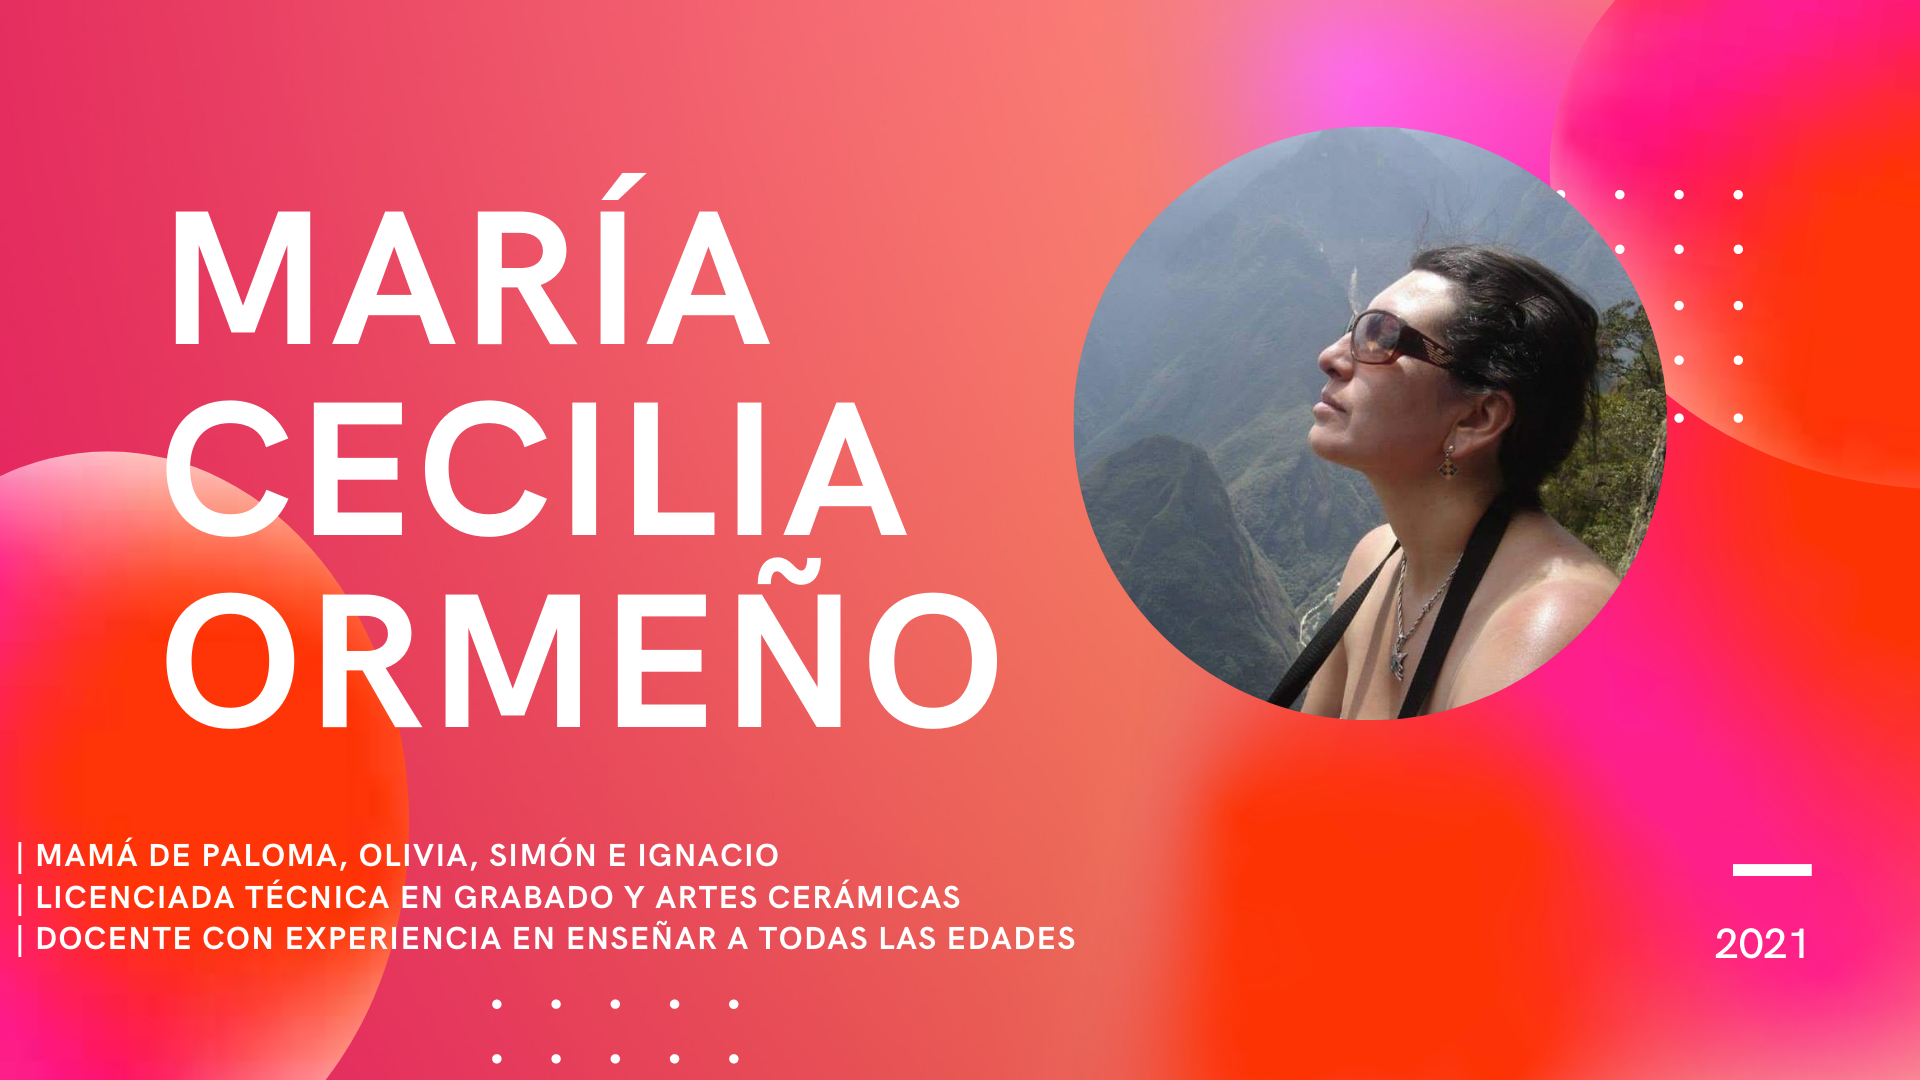
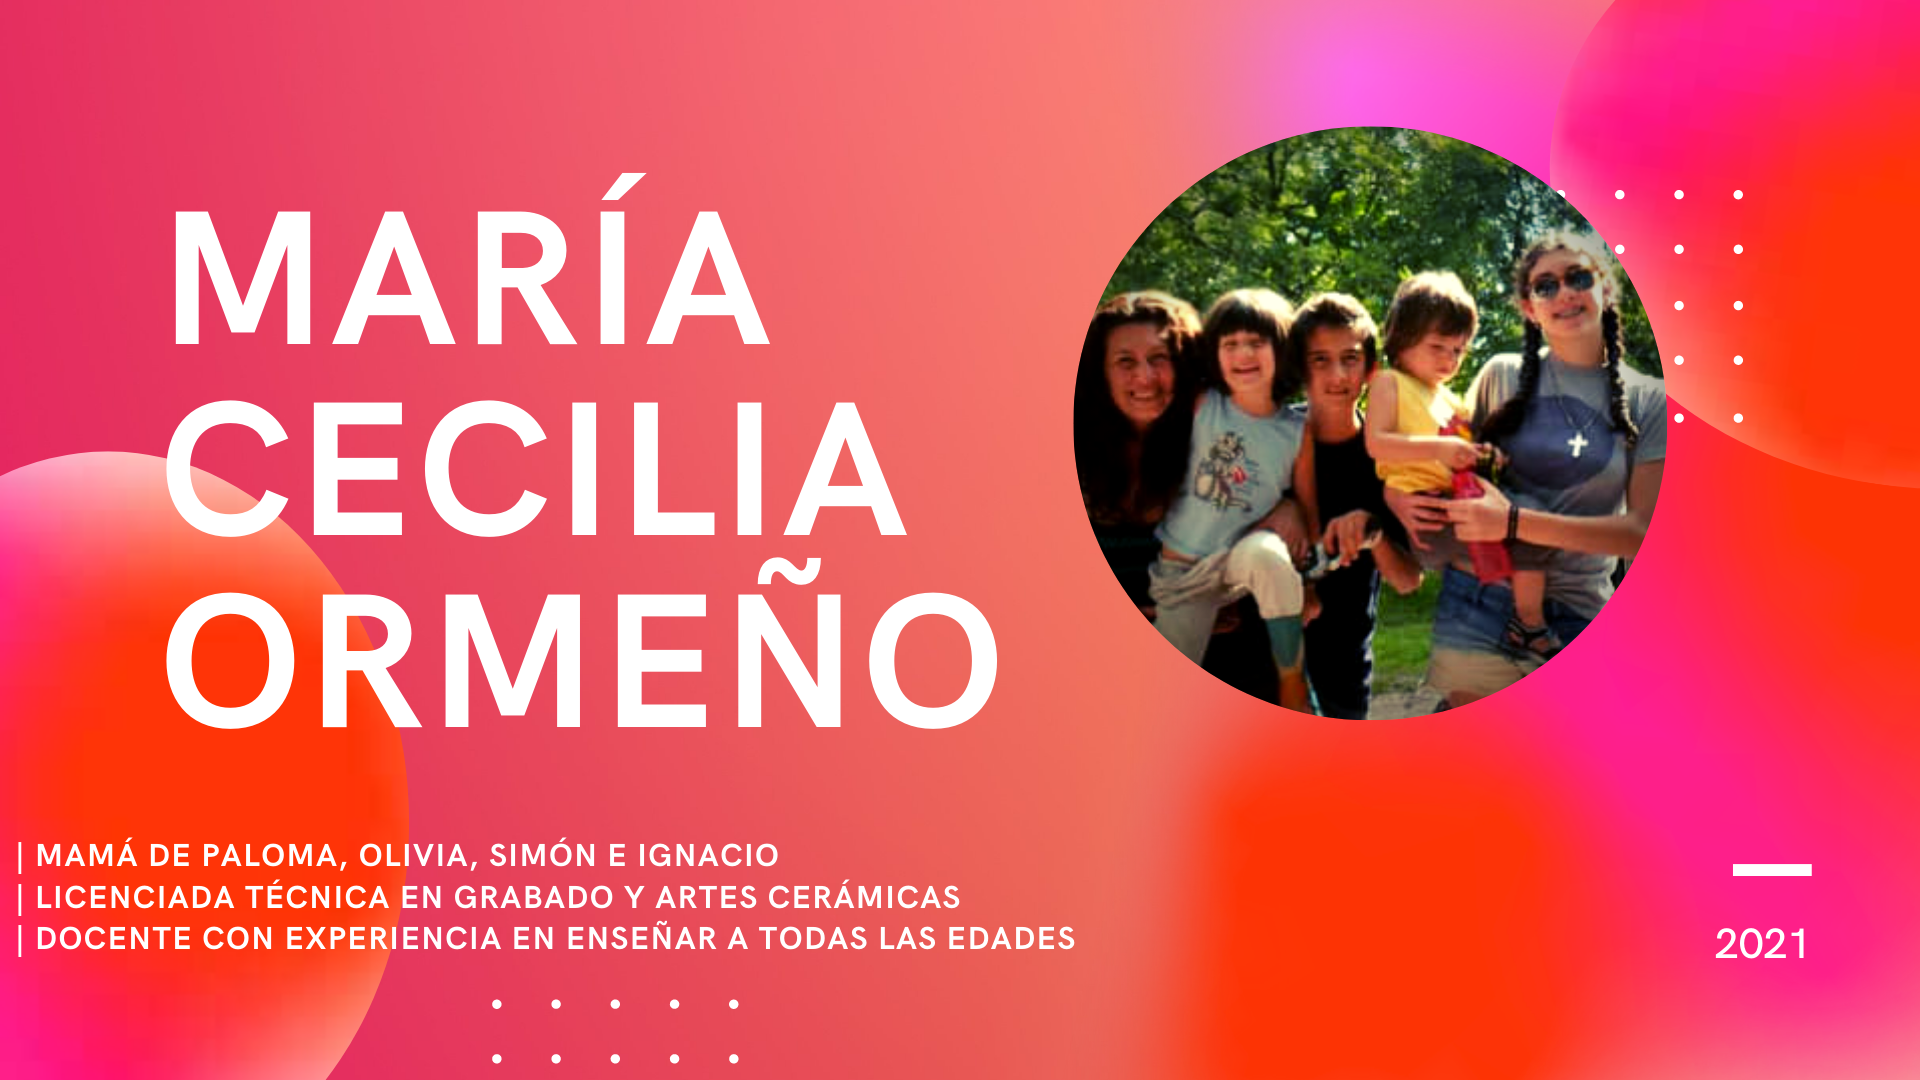
Modificación de rutas y actualización de imágenes

Changed region(s): [[0.5312, 0.0917, 0.875, 0.6722]]

diff --git a/src/components/navegation/Navbar.js b/src/components/navegation/Navbar.js
@@ -15,13 +15,10 @@ const Navbar = () => {
                 <div className="collapse navbar-collapse" id="navbarNavDropdown">
                   <ul className="navbar-nav mx-auto">
                     <li className="nav-item">
-                      <Link className="nav-link" to="/">Inicio</Link>
+                      <Link className="nav-link" to="/">Docencia</Link>
                     </li>
                     <li className="nav-item">
-                      <Link className="nav-link" to="/docencia">Docencia</Link>
-                    </li>
-                    <li className="nav-item">
-                      <Link className="nav-link" to="/items">Mamá Produce</Link>
+                      <Link className="nav-link" to="/exposiciones">Exposiciones</Link>
                     </li>
                     <li className="nav-item">
                       <Link className="nav-link" to="/contacto">Contacto</Link> 

diff --git a/src/App.js b/src/App.js
@@ -3,8 +3,8 @@ import {BrowserRouter as Router, Switch, Route} from 'react-router-dom'
 import Navbar from './components/navegation/Navbar'
 import Inicio from './components/pages/Inicio'
 import Docencia from './components/pages/Docencia'
-import Items from './components/pages/Items'
 import Contacto from './components/pages/Contacto'
+
 
 
 function App() {
@@ -13,9 +13,8 @@ function App() {
       <Router>
         <Navbar/>
         <Switch>
-          <Route path='/' exact component={Inicio}/>
-          <Route path='/docencia' component={Docencia}/>
-          <Route path='/items' component={Items}/> 
+          <Route path='/' exact component={Docencia}/>
+          <Route path='/exposiciones' component={Inicio}/>
           <Route path='/contacto' component={Contacto}/>  
         </Switch>
       </Router>
